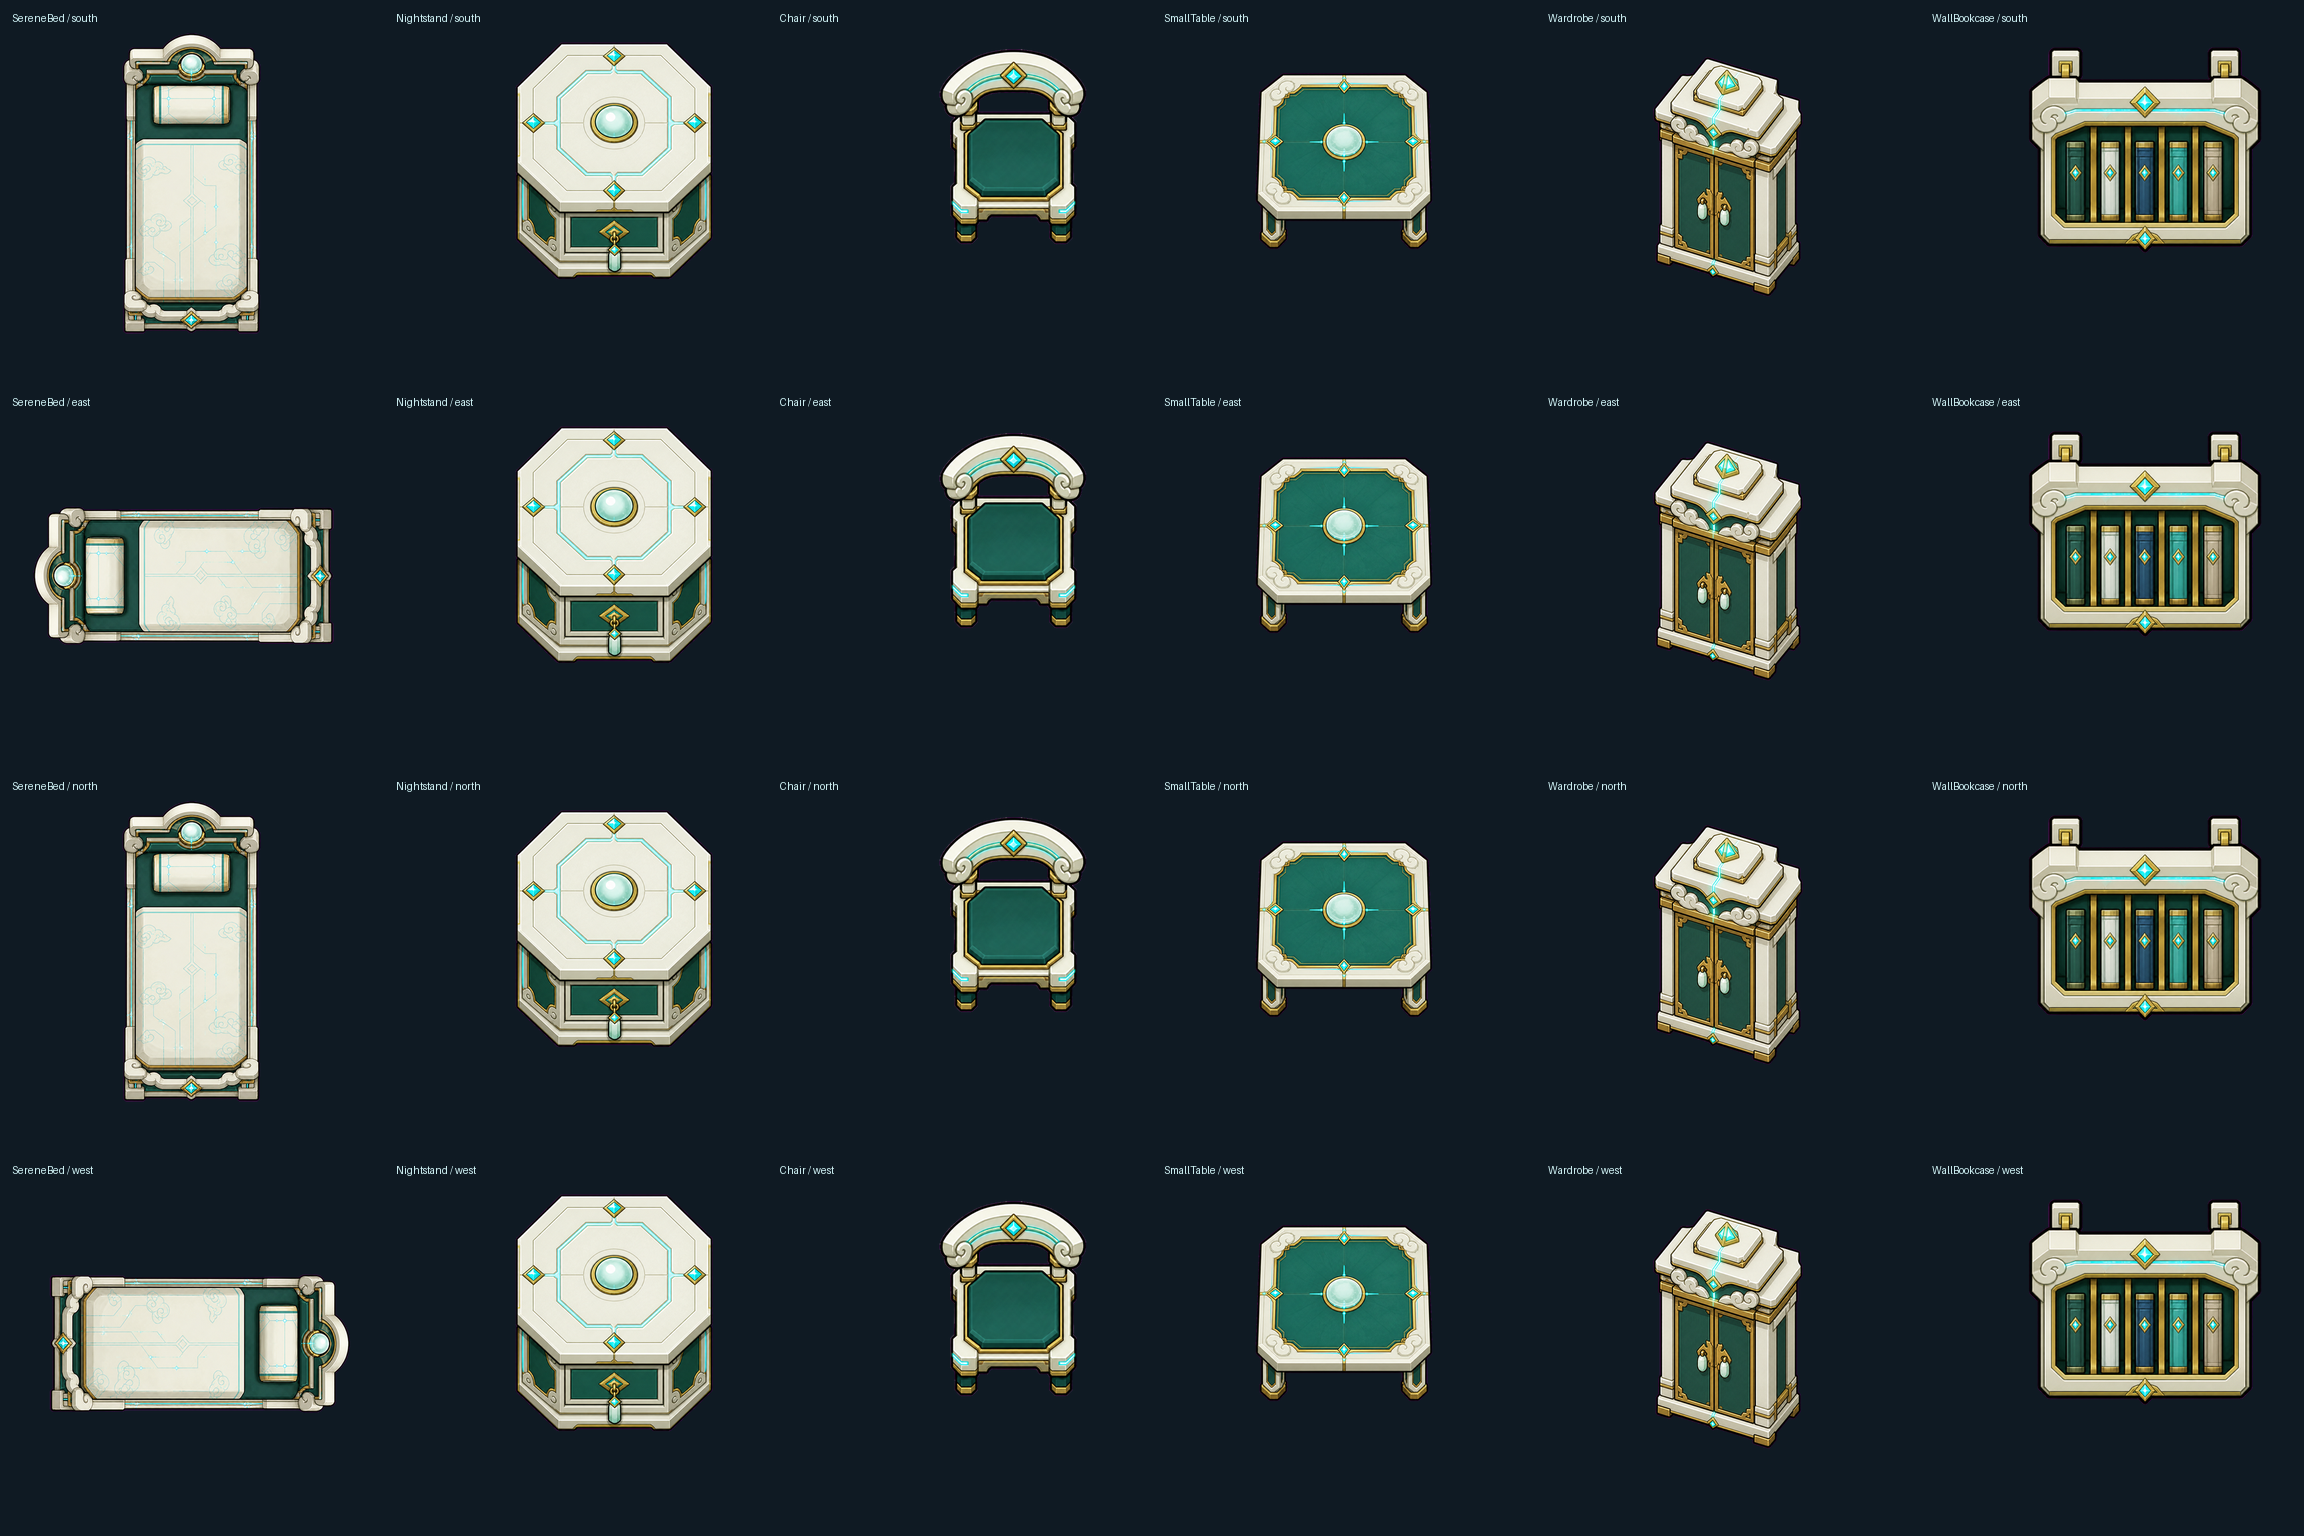
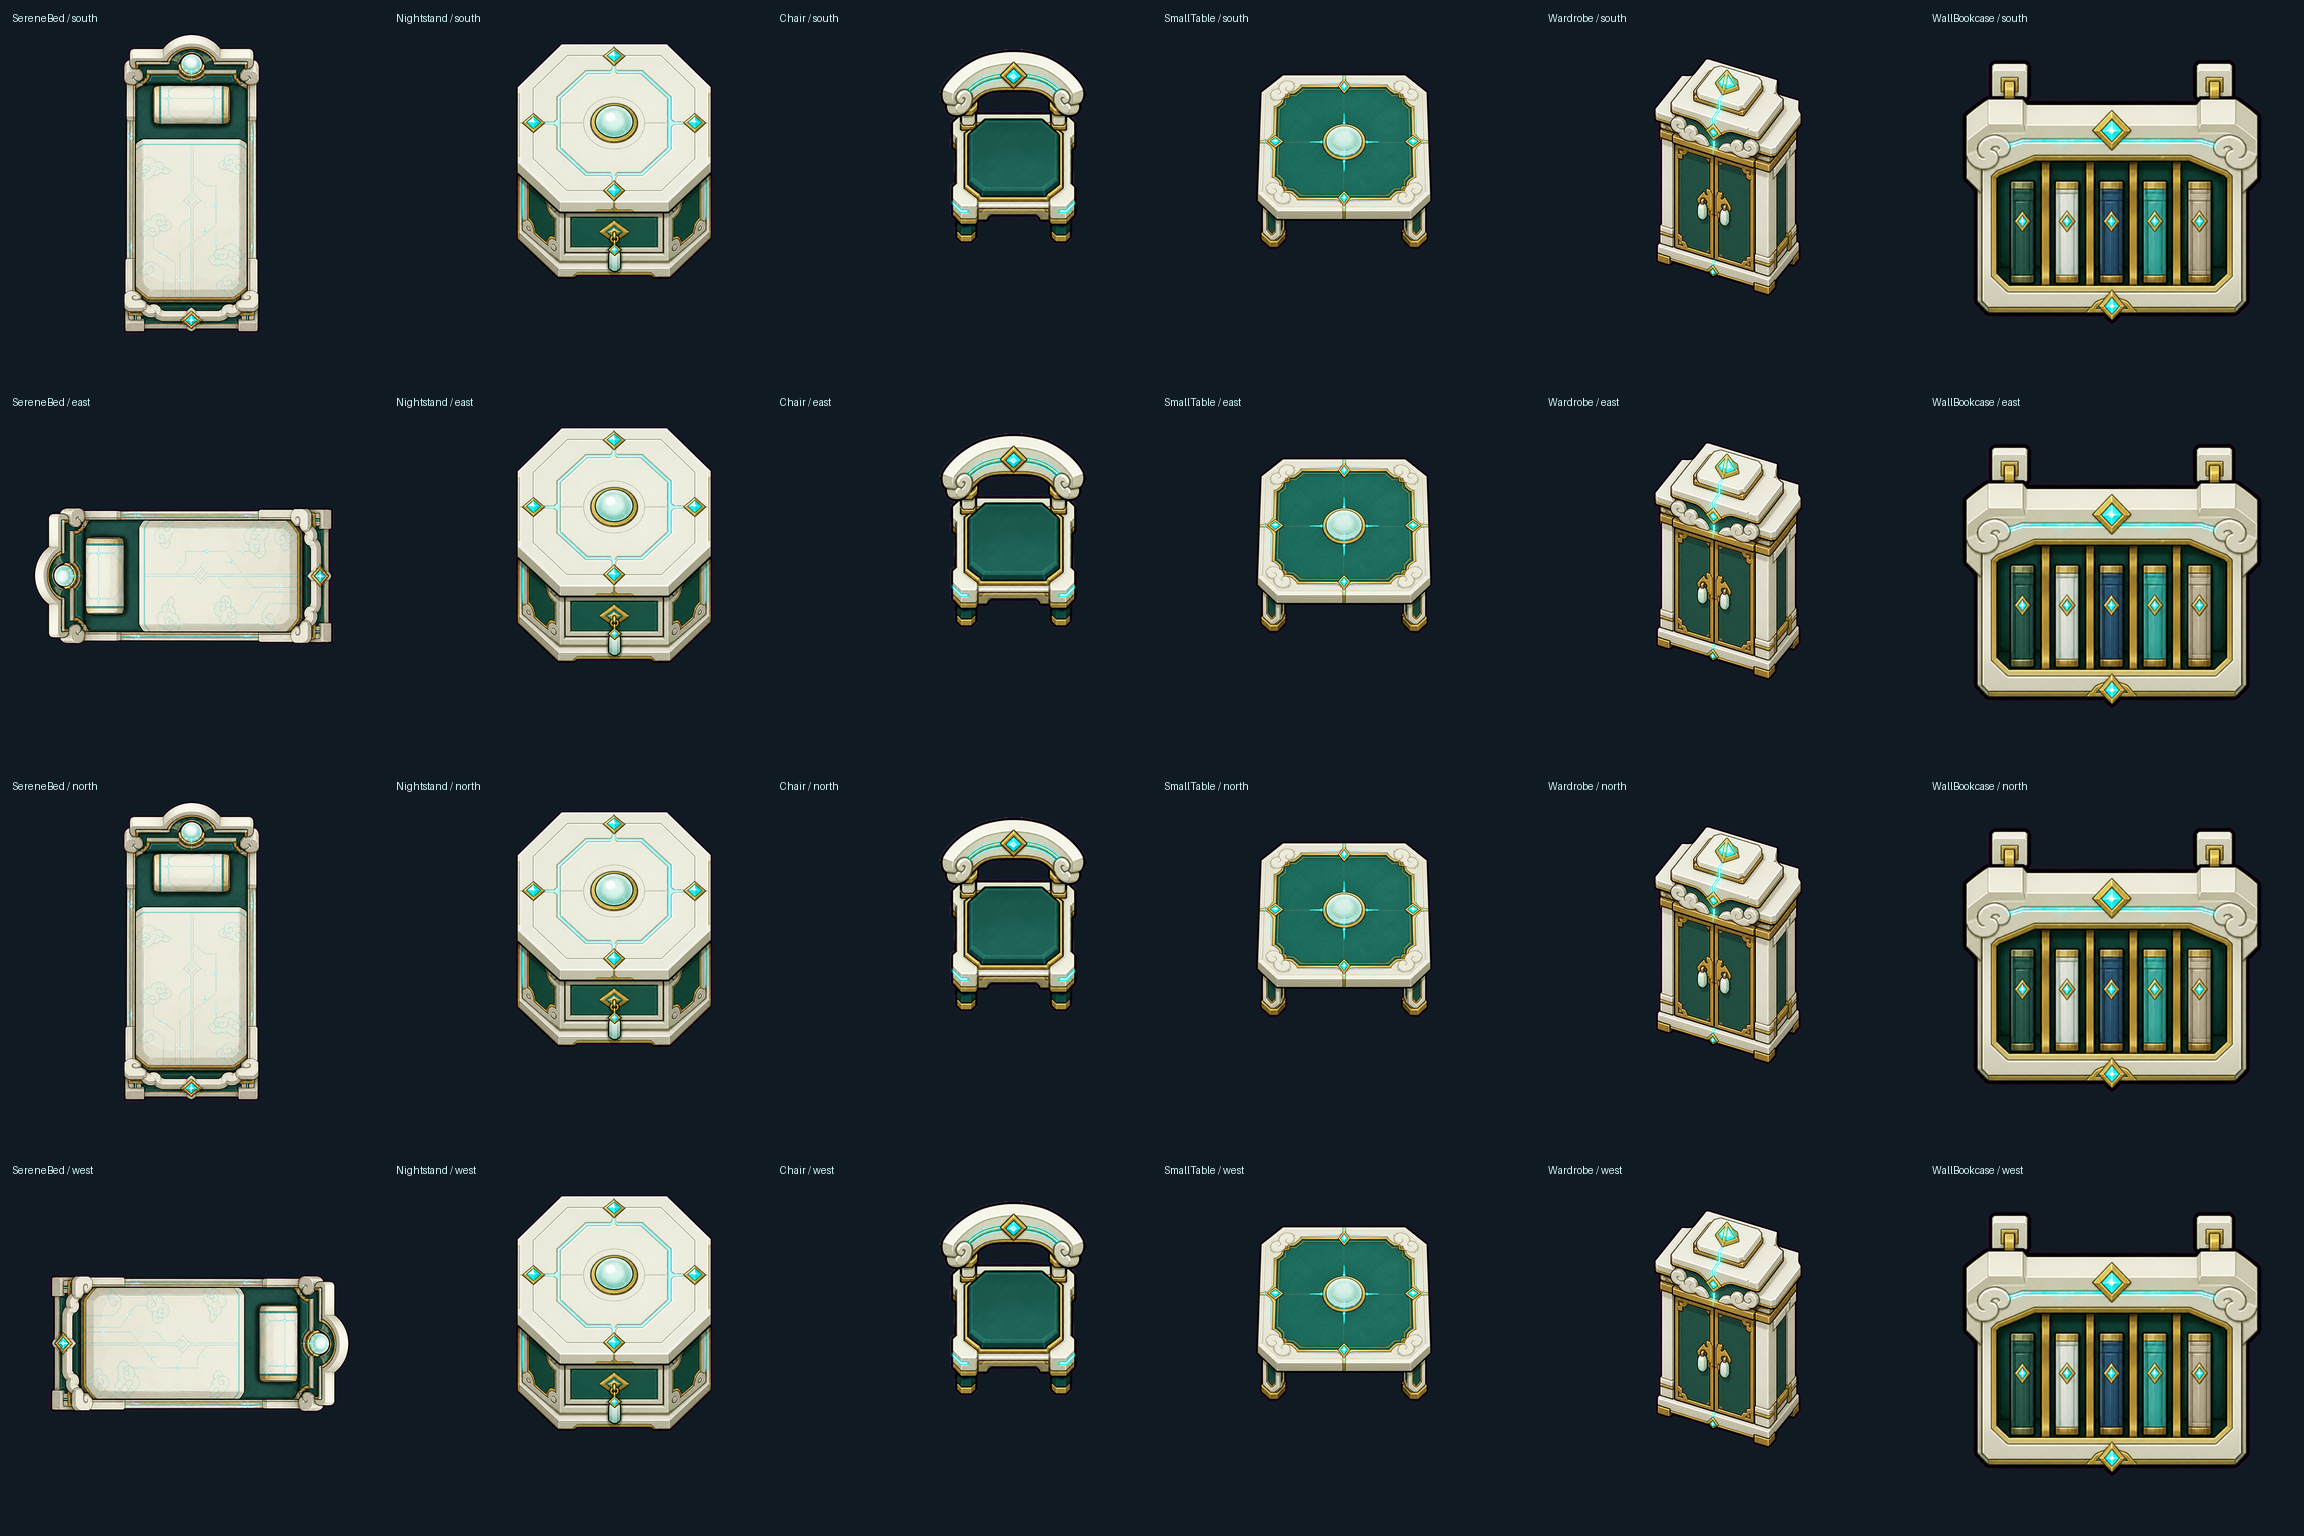
Center wall bookcase sprites

diff --git a/Source/prepare_bedroom_furniture_assets.py b/Source/prepare_bedroom_furniture_assets.py
@@ -21,7 +21,7 @@ SOURCES = {
 }
 
 
-def remove_magenta(source: Path) -> Image.Image:
+def remove_magenta(source: Path, crop_by_alpha: bool = False) -> Image.Image:
     image = Image.open(source).convert("RGBA")
     pixels = image.load()
     for y in range(image.height):
@@ -34,13 +34,23 @@ def remove_magenta(source: Path) -> Image.Image:
                 r = max(0, r - spill)
                 b = max(0, b - spill)
             pixels[x, y] = (r, g, b, alpha)
-    box = image.getbbox()
+    # RGB values survive in fully transparent pixels after spill removal.  An
+    # RGBA getbbox() therefore measures the old magenta canvas and can place a
+    # visibly off-centre object on the final game texture.  Crop by meaningful
+    # alpha instead, so the rendered object—not its invisible RGB—is centred.
+    alpha_mask = image.getchannel("A").point(lambda value: 255 if value > 64 else 0)
+    box = alpha_mask.getbbox() if crop_by_alpha else image.getbbox()
     return image.crop(box) if box else image
 
 
-def on_canvas(image: Image.Image, size: tuple[int, int], occupancy: float = .90) -> Image.Image:
+def on_canvas(image: Image.Image, size: tuple[int, int], occupancy: float = .90,
+              crop_by_alpha: bool = False) -> Image.Image:
     canvas = Image.new("RGBA", size)
     image = image.copy()
+    if crop_by_alpha:
+        alpha_box = image.getchannel("A").point(lambda value: 255 if value > 64 else 0).getbbox()
+        if alpha_box:
+            image = image.crop(alpha_box)
     image.thumbnail((int(size[0] * occupancy), int(size[1] * occupancy)), Image.Resampling.LANCZOS)
     canvas.alpha_composite(image, ((size[0] - image.width) // 2, (size[1] - image.height) // 2))
     return canvas
@@ -51,7 +61,7 @@ def save_single(name: str, image: Image.Image, occupancy: float = .90) -> None:
 
 
 def save_multi(name: str, south: Image.Image, occupancy: float = .90,
-               rotate_long_axis: bool = False) -> None:
+               rotate_long_axis: bool = False, crop_by_alpha: bool = False) -> None:
     # A generated pseudo-3D front must not be rotated by 180 degrees. Doing so
     # turns doors, chair backs and cornices physically upside down. One-cell
     # furniture stays upright in every rotation; long-axis furniture only gets
@@ -61,11 +71,12 @@ def save_multi(name: str, south: Image.Image, occupancy: float = .90,
         directions["east"] = south.rotate(90, expand=True, resample=Image.Resampling.BICUBIC)
         directions["west"] = south.rotate(270, expand=True, resample=Image.Resampling.BICUBIC)
     for direction, image in directions.items():
-        on_canvas(image, (512, 512), occupancy).save(OUTPUT / f"{name}_{direction}.png", optimize=True)
+        on_canvas(image, (512, 512), occupancy, crop_by_alpha).save(OUTPUT / f"{name}_{direction}.png", optimize=True)
 
 
 clean = {
-    name: remove_magenta(source if isinstance(source, Path) else GENERATED / source)
+    name: remove_magenta(source if isinstance(source, Path) else GENERATED / source,
+                         crop_by_alpha=name == "WallBookcase")
     for name, source in SOURCES.items()
 }
 save_multi("SereneBed", clean["SereneBed"], .96, rotate_long_axis=True)
@@ -73,7 +84,7 @@ save_single("Nightstand", clean["Nightstand"], .88)
 save_multi("Chair", clean["Chair"], .84)
 save_single("SmallTable", clean["SmallTable"], .88)
 save_multi("Wardrobe", clean["Wardrobe"], .88)
-save_multi("WallBookcase", clean["WallBookcase"], .88)
+save_multi("WallBookcase", clean["WallBookcase"], .88, crop_by_alpha=True)
 
 # Building_Bookcase draws separate top-altitude bookend layers.  Transparent
 # one-pixel sprites keep the vanilla renderer active without adding foreign art.
@@ -104,6 +115,7 @@ for gy in range(0, 769, 256):
     wall_draw.line((0, gy, 768, gy), fill=(110, 126, 132, 255), width=2)
 wall_draw.rectangle((256, 0, 511, 255), fill=(37, 46, 50, 255), outline=(8, 10, 12, 255), width=8)
 wall_draw.rectangle((268, 12, 499, 243), fill=(91, 101, 105, 255), outline=(154, 166, 168, 255), width=5)
+wall_draw.line((384, 0, 384, 256), fill=(91, 226, 235, 255), width=2)
 bookcase = Image.open(OUTPUT / "WallBookcase_north.png").convert("RGBA")
 bookcase.thumbnail((302, 302), Image.Resampling.LANCZOS)
 base_x = 384 - bookcase.width // 2
